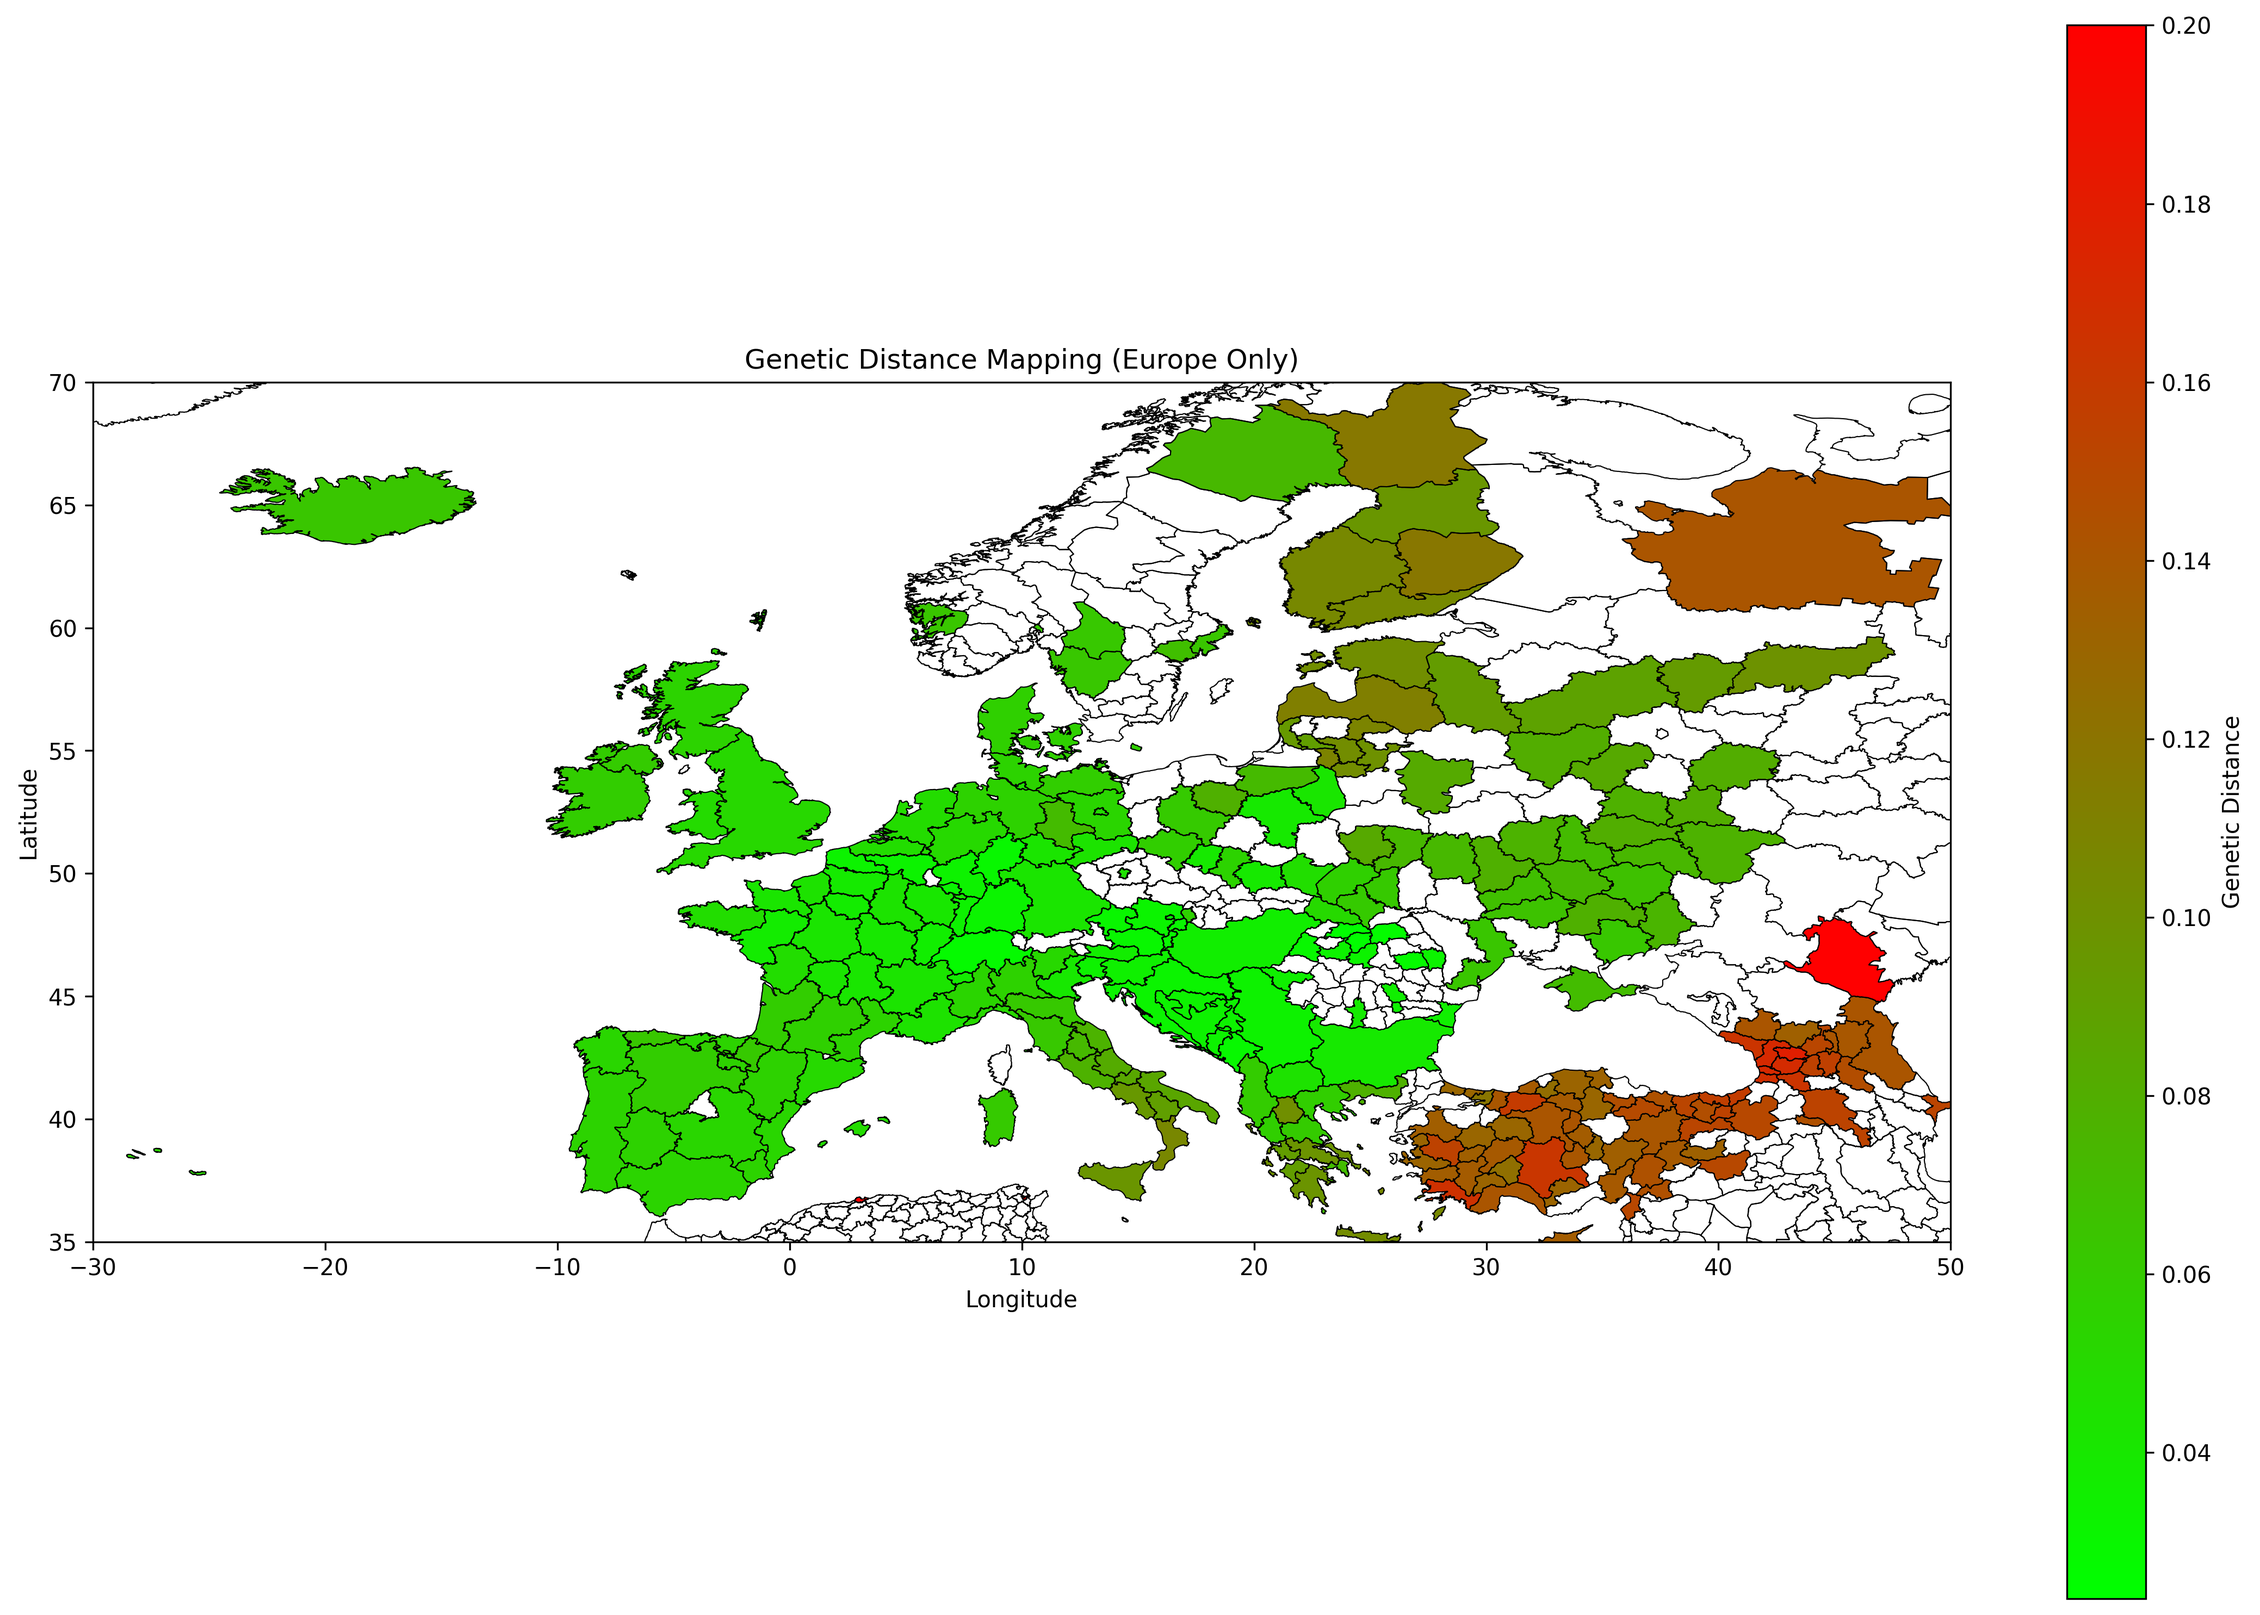
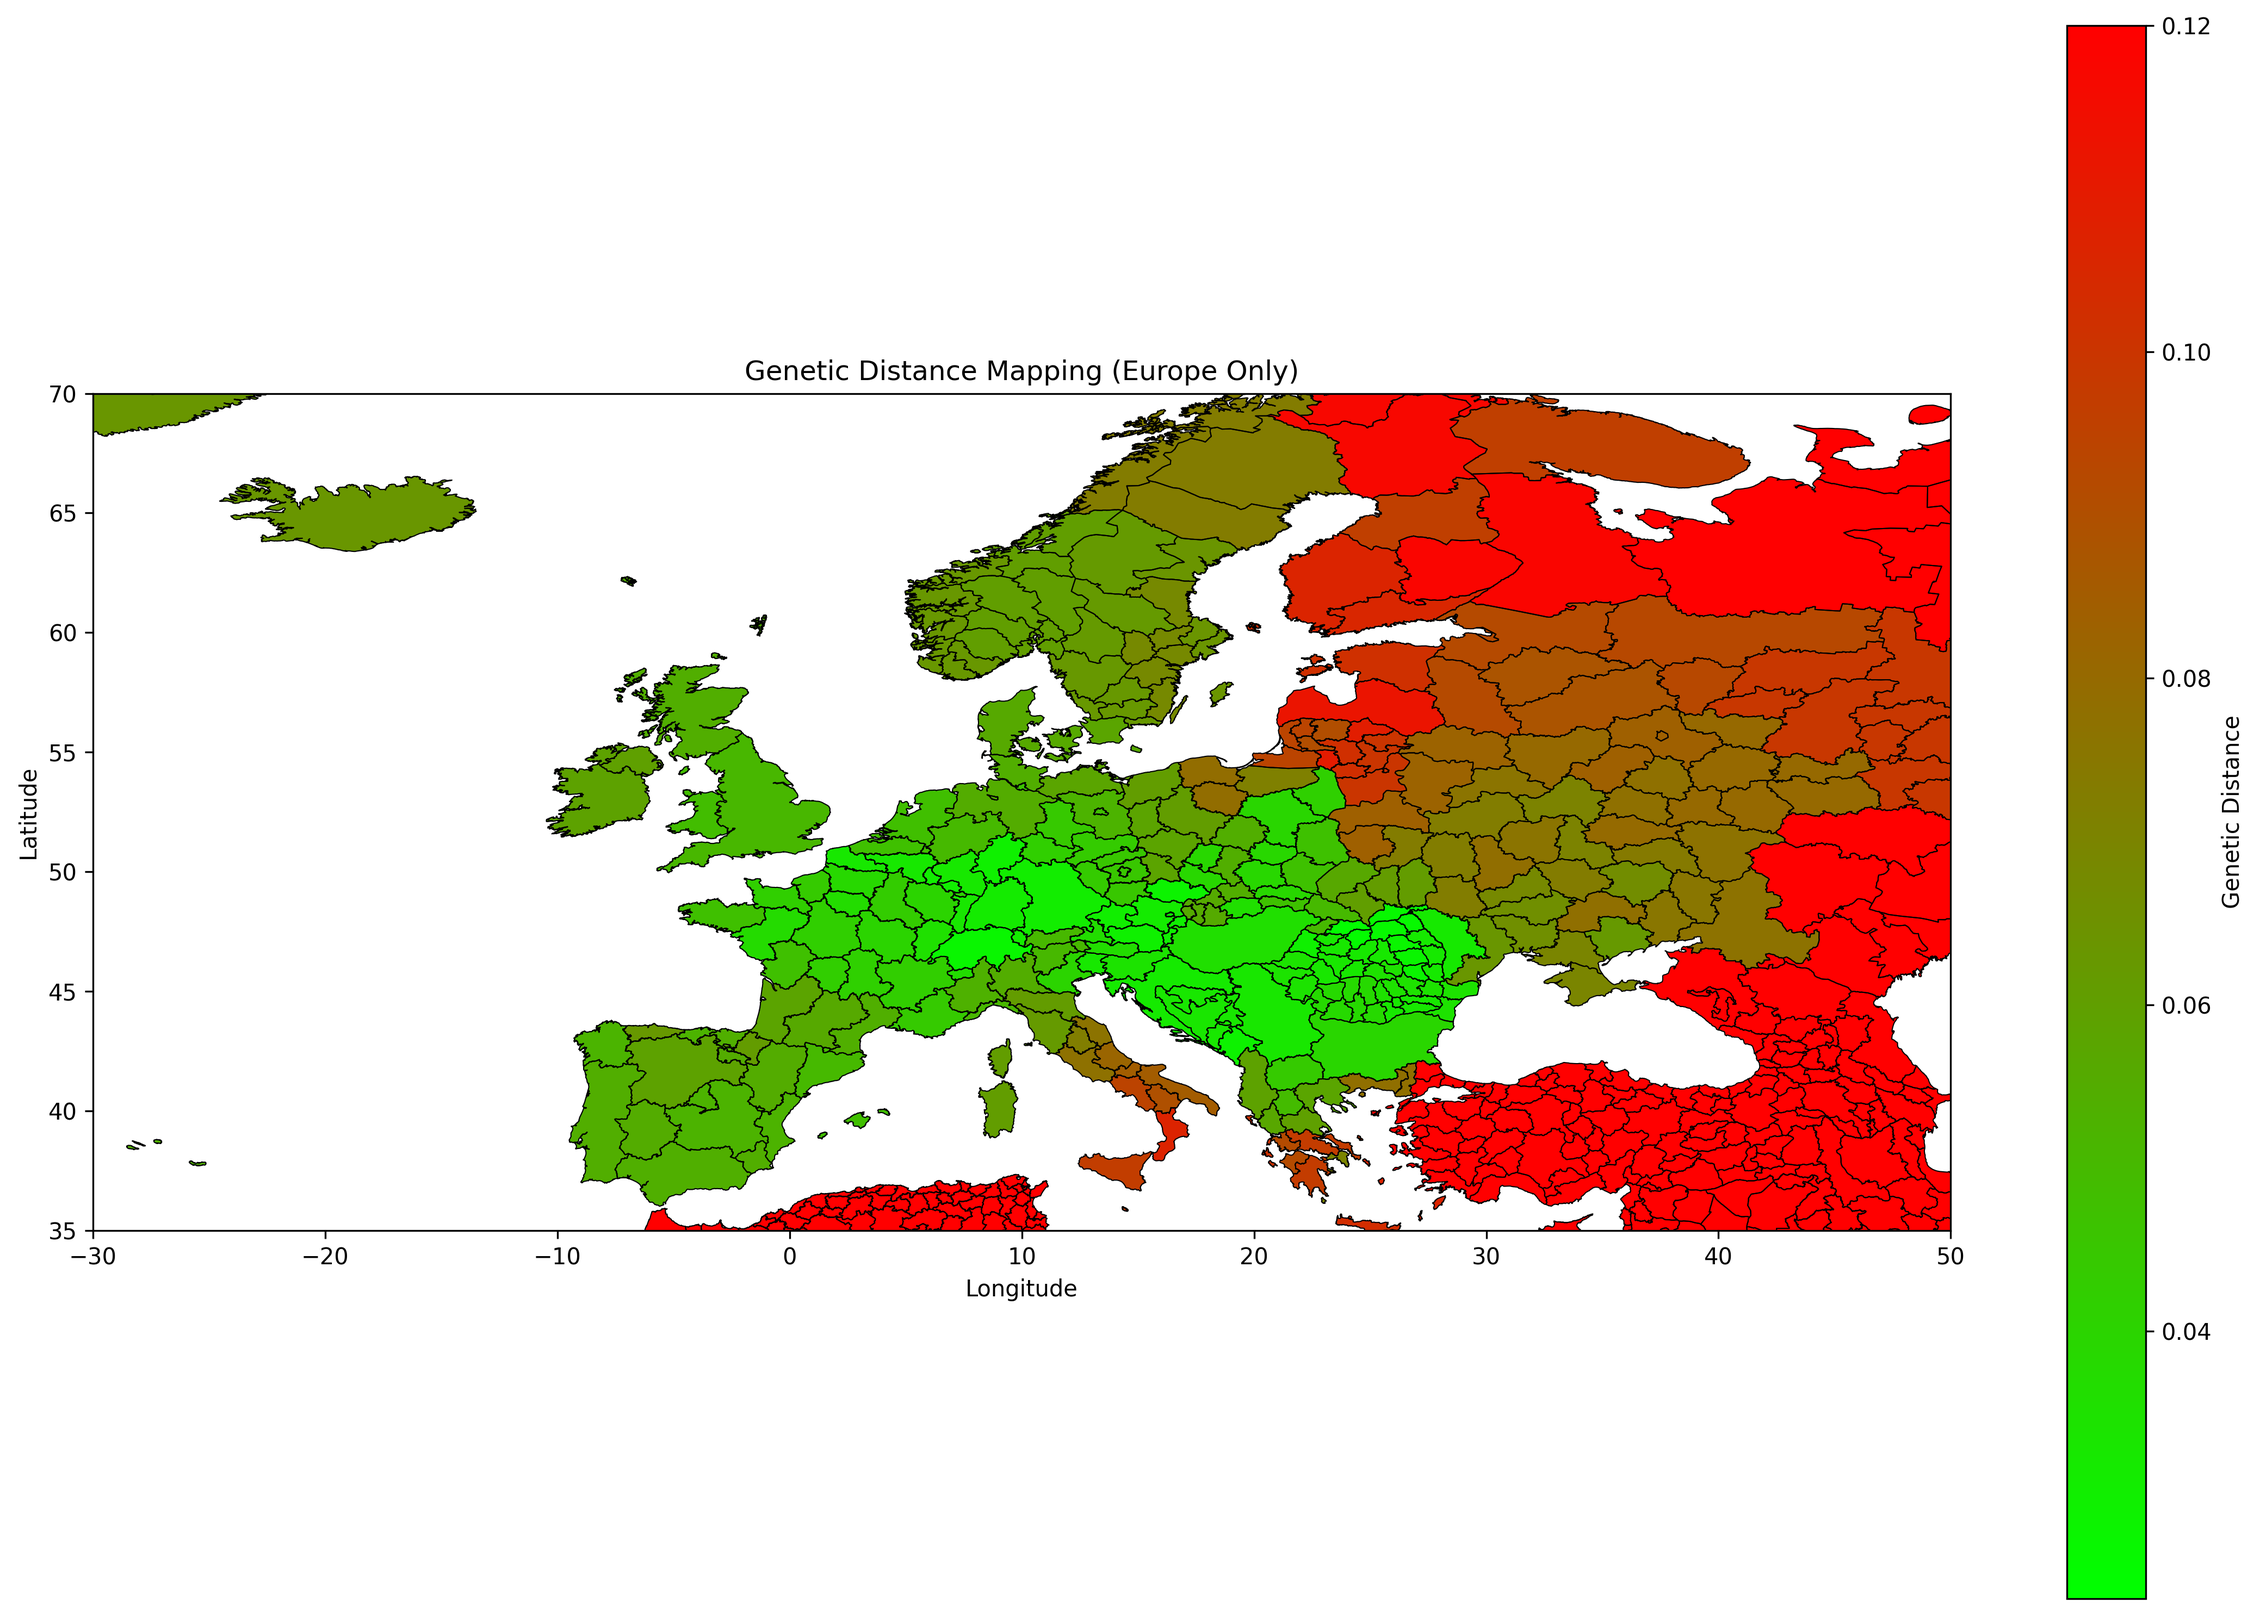
nafrica improvement

Changed region(s): [[0.031, 0.2168, 0.8693, 0.8054], [0.0931, 0.2788, 0.2173, 0.3407]]

diff --git a/get_distances_data.py b/get_distances_data.py
@@ -2033,21 +2033,20 @@ mapping = {
       "Swiss_German": "Switzerland",  # No exact match, used a plausible geographic region
     "German_Baden-Wurttemberg": "Baden-Wuerttemberg",
     "German_Bavaria": "Bayern",
-    "German_Bavaria_Lower_Bavaria": "Bayern",
-    "German_Bavaria_Lower_Franconia": "Bayern",
-    "German_Bavaria_Middle_Franconia": "Bayern",
-    "German_Bavaria_Middle_Franconia_Erlangen": "Bayern",
-    "German_Bavaria_Swabia": "Bayern",
-    "German_Bavaria_Upper_Palatinate": "Bayern",
+    # "German_Bavaria_Lower_Bavaria": "Bayern",
+    # "German_Bavaria_Lower_Franconia": "Bayern",
+    # "German_Bavaria_Middle_Franconia": "Bayern",
+    # "German_Bavaria_Middle_Franconia_Erlangen": "Bayern",
+    # "German_Bavaria_Swabia": "Bayern",
+    # "German_Bavaria_Upper_Palatinate": "Bayern",
     "German_Brandenburg": "Brandenburg",
-    "German_East": "Sachsen-Anhalt",  # No exact match, used a plausible region
     # "German_East_Prussia_Braunsberg": "Schleswig-Holstein",  # No exact match, used a plausible region
     # "German_East_Prussia_Masuria": "Schleswig-Holstein",  # No exact match, used a plausible region
     # "German_East_Prussia_Memelland": "Schleswig-Holstein",  # No exact match, used a plausible region
     "German_Hamburg": "Hamburg",
     "German_Hesse": "Hessen",
     "German_Lower_Saxony": "Niedersachsen",
-    "German_Lower_Silesia": "Sachsen-Anhalt",  # No exact match, used a plausible region
+    # "German_Lower_Silesia": "Sachsen-Anhalt",  # No exact match, used a plausible region
     "German_Mecklenburg": "Mecklenburg-Vorpommern",
     "German_Mennonite_Russia": "Berlin",  # No exact match, used a plausible region
     "German_North_Bohemia": "Sachsen",  # No exact match, Bohemia related to Sachsen
@@ -2066,7 +2065,7 @@ mapping = {
     # "German_Schleswig-German_South": "Schleswig-Holstein",  # No exact match, used a plausible region
     "German_Southwest": "Baden-Wuerttemberg",  # No exact match, used a plausible region
     "German_Thuringia": "Thueringen",
-    "German_Upper_Silesia": "Sachsen-Anhalt",  # No exact match, used a plausible region
+    # "German_Upper_Silesia": "Sachsen-Anhalt",  # No exact match, used a plausible region
     "German_Upper_Swabia": "Baden-Wuerttemberg",  # Part of Baden-Württemberg
     "German_West_Bohemia": "Sachsen",  # No exact match, Bohemia related to Sachsen
     "German_West_Pomerania_Voivodeship": "Mecklenburg-Vorpommern",  # Related to Pomerania
@@ -2317,7 +2316,19 @@ mapping = {
     "Karachay": "Karatchayevo-cherkesiya Rep.",
     "Khakass": "Khakasiya Rep.",
     "Sicilian_Central": "Sicilia",
-    "Algerian": "Alger",
+    "Algerian": "Boumerdes",
+    "Algerian_Algiers": "Alger",
+    "Algerian_Algiers_Intermediate_Profile": "Adrar",
+    "Algerian_Jew": "Tamanrasset",
+    "Algerian_Steppe_Nomad": "Mascara",
+    "Berber_Algeria_Gourara_Timimoun": "Ghardaia",
+    "Berber_Algeria_Gourara_Timimoun_Intermediate_Profile": "Illizi",
+    "Berber_Algeria_Gourara_Timimoun_SSA_Profile": "Bouira",
+    "Berber_Algeria_Kabyle": "Ouargla",
+    "Berber_Algeria_Mozabite": "Oum El Bouaghi",
+    "Berber_Algeria_Mozabite_Intermediate_Profile": "Tindouf",
+    "Berber_Algeria_Shawiya": "Mila",
+    "Berber_Algeria_Tuareg": "Skikda",
     "Georgian_Adjarian": "Adjara Aut. Rep.",
     "Georgian_Gurian": "Guria",
     "Georgian_Imeretian": "Imereti",
@@ -2372,8 +2383,8 @@ mapping = {
     "Greek_Heptanese_Kefalonia": "Ionioi Nisoi",
     "Greek_Heptanese_Kythira": "Ionioi Nisoi",
     "Greek_Heptanese_Zakynthos": "Ionioi Nisoi",
-    "Greek_Italy_Apulia": "Dytiki Makedonia",
-    "Greek_Italy_Calabria": "Dytiki Makedonia",
+    # "Greek_Italy_Apulia": "Dytiki Makedonia",
+    # "Greek_Italy_Calabria": "Dytiki Makedonia",
     "Greek_Macedonia": "Kentriki Makedonia",
     "Greek_North_Aegean_Lemnos": "Notio Aigaio",
     "Greek_North_Aegean_Samothrace": "Notio Aigaio",
@@ -2399,7 +2410,7 @@ mapping = {
     "Greek_Thessaly": "Thessalia",
     "Greek_Western_Greece_AetoliaAcarnania": "Dytiki Ellada",
     "Greek_Western_Macedonia": "Dytiki Makedonia",
-    "Greek_Western_Macedonia_Vallahas_(Patriyot)": "Dytiki Makedonia",
+    # "Greek_Western_Macedonia_Vallahas_(Patriyot)": "Dytiki Makedonia",
        "Turkish_(Azeri_Profile)": "Igdir",
     "Turkish_(Central_Anatolian_Turk_Profile)": "Kirsehir",
     "Turkish_(East_Anatolian_Turk_Profile)": "Erzurum",
@@ -2456,7 +2467,22 @@ mapping = {
     "Turkish_Trabzon": "Trabzon",
     "Turkish_Usak": "Usak",
     "Turkish_Zonguldak": "Zonguldak",
-    "Tunisian": "Tunis"
+    "Tunisian": "Tunis",
+       "Moroccan": "Tanger - Tétouan",
+    "Moroccan_Casablanca": "Grand Casablanca",
+    "Moroccan_Errachidia": "Laâyoune - Boujdour - Sakia El Hamra",
+    "Moroccan_Errachidia_Intermediate_Profile": "Guelmim - Es-Semara",
+    "Moroccan_Fassi": "Rabat - Salé - Zemmour - Zaer",
+    "Moroccan_Intermediate_Profile": "Marrakech - Tensift - Al Haouz",
+    "Moroccan_Jebala": "Fès - Boulemane",
+    "Moroccan_Jebala_Chefchaouen": "Gharb - Chrarda - Béni Hssen",
+    "Moroccan_Jew": "Souss - Massa - Draâ",
+    "Moroccan_Morisco": "Tadla - Azilal",
+    "Moroccan_Morisco_Tetouan": "Meknès - Tafilalet",
+    "Moroccan_Ouarzazate": "Oriental",
+    "Moroccan_Ouarzazate_Intermediate_Profile": "Chaouia - Ouardigha",
+    "Moroccan_Oujda": "Doukkala - Abda",
+    "Moroccan_Zagora": "Taza - Al Hoceima - Taounate"
 }
 
 # Iterate through the original array

diff --git a/genetic_distance_plot.py b/genetic_distance_plot.py
@@ -5,14 +5,12 @@ import pandas as pd
 from get_distances_data import valid_names
 from get_distances_data import distances
 from matplotlib.colors import LinearSegmentedColormap
+from scipy.spatial import cKDTree
 
 # Read the shapefile
 world = gpd.read_file('gaul1_asap.shp')
 
-# Handle encoding issues for region names
-# (Assuming 'name1' is the column that contains the region names in your shapefile)
-
-# Example genetic distance data (replace with the correct names if needed)
+# Example genetic distance data
 genetic_data = {
     "Distance": distances,
     "Region": valid_names
@@ -23,24 +21,48 @@ world['genetic_distance'] = world['name1'].map(dict(zip(genetic_data['Region'], 
 
 # Print the first few entries of genetic_distance
 print('All entries of names:\n', world['name0'].unique().tolist())
-# Filter for Poland
-country = 'Tunisia'
+# Filter for a specific country (e.g., Tunisia)
+country = 'Algeria'
 regions = world[world['name0'] == country]
 region_names = regions['name1'].unique().tolist()
-print('All entries of names for' + country + '\n', region_names)
+print(f'All entries of names for {country}:\n', region_names)
 
 # Check how many regions have NaN distances
 nan_count = world['genetic_distance'].isna().sum()
 print(f"Regions with NaN genetic distances: {nan_count}")
 
-# Filter out rows where genetic_distance is NaN
+# Separate regions with and without genetic distance
+regions_with_distance = world.dropna(subset=['genetic_distance'])
+regions_without_distance = world[world['genetic_distance'].isna()]
+
+# Interpolate missing genetic distances using nearest neighbor
+if not regions_without_distance.empty:
+    # Get the centroids of regions with valid distances and their genetic distances
+    valid_coords = np.array(list(regions_with_distance.geometry.centroid.apply(lambda geom: (geom.x, geom.y))))
+    valid_distances = regions_with_distance['genetic_distance'].values
+    
+    # Build a KDTree for fast nearest-neighbor lookup
+    kdtree = cKDTree(valid_coords)
+    
+    # Find nearest neighbors for regions with missing distances
+    missing_coords = np.array(list(regions_without_distance.geometry.centroid.apply(lambda geom: (geom.x, geom.y))))
+    _, nearest_indices = kdtree.query(missing_coords)
+    
+    # Assign the nearest genetic distance to the missing regions
+    world.loc[world['genetic_distance'].isna(), 'genetic_distance'] = valid_distances[nearest_indices]
+
+# Check the updated NaN count
+nan_count_after = world['genetic_distance'].isna().sum()
+print(f"Regions with NaN genetic distances after interpolation: {nan_count_after}")
+
+# Filter out rows where genetic_distance is NaN (in case there are any remaining)
 world_filtered = world[pd.notna(world['genetic_distance'])].copy()
 
 # Create a custom colormap from green to red
 cmap = LinearSegmentedColormap.from_list('custom_green_red', [(0.0, 1.0, 0.0), 'red'])
 
 # Update normalization for color mapping
-norm = plt.Normalize(vmin=min(distances), vmax=0.2)
+norm = plt.Normalize(vmin=min(distances), vmax=0.12)
 
 # Set color based on genetic distance using .loc to avoid the warning
 world_filtered.loc[:, 'color'] = world_filtered['genetic_distance'].apply(
